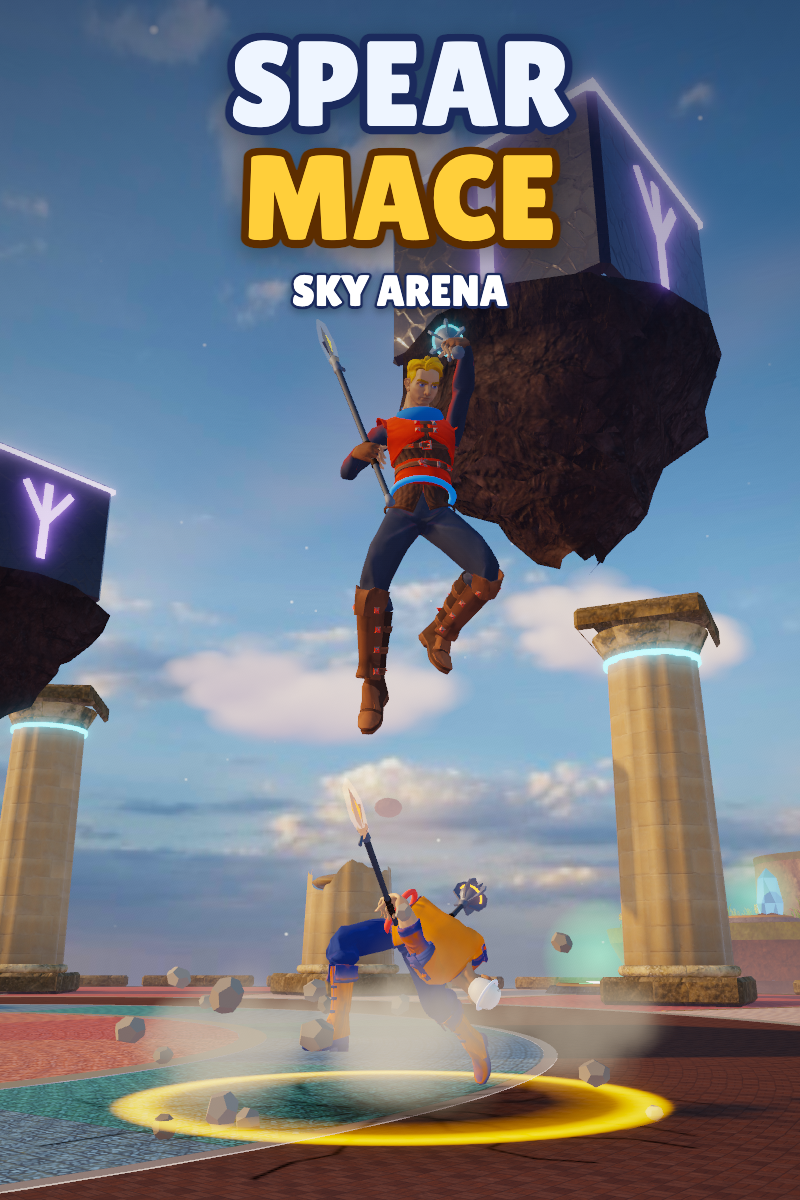
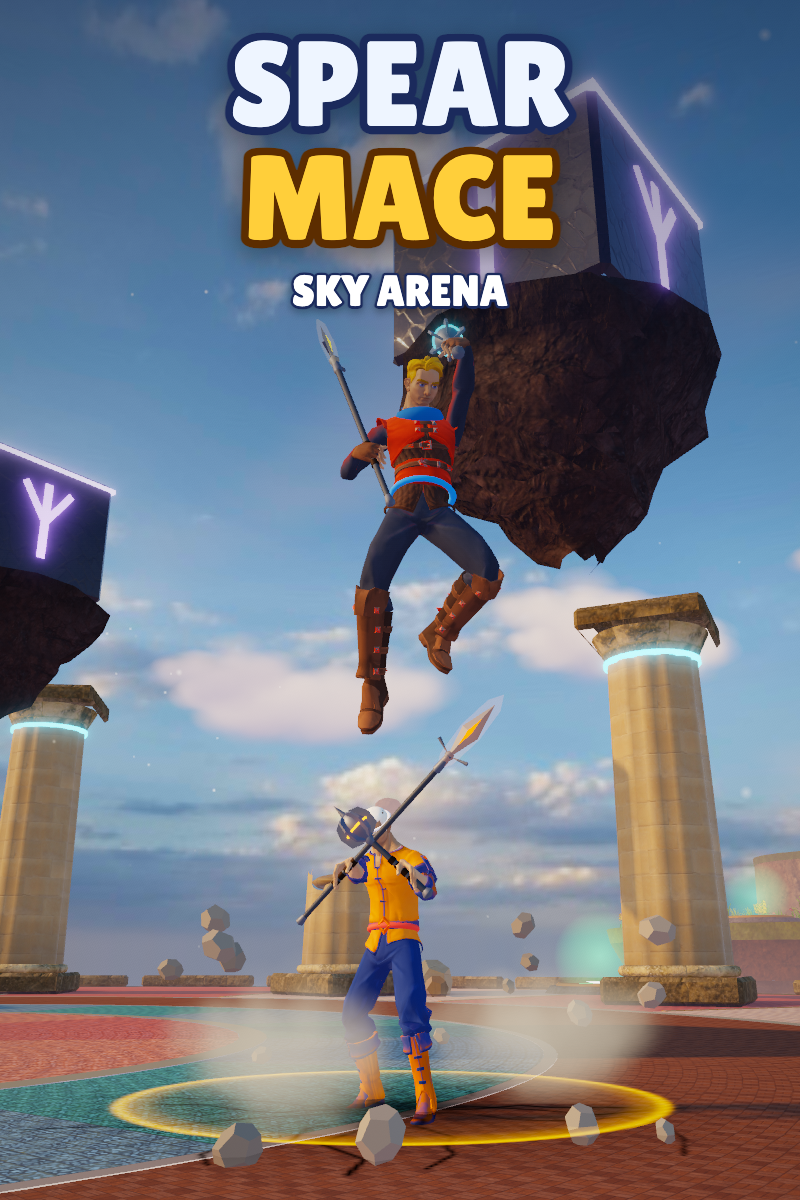
3D: covers wait for every image; outfit textures load up front on desktop

diff --git a/3d/tools/covers.js b/3d/tools/covers.js
@@ -8,7 +8,8 @@
 // ==========================================
 
 import * as THREE from 'three';
-import { CharacterModel, preloadSkin } from '../src/character.js';
+import { CharacterModel, preloadAllSkins, preloadSkin } from '../src/character.js';
+import { assetStats } from '../src/gfx.js';
 
 // Fighters fill the frame: the hero comes down from above with the mace, the rival braces underneath
 const SIZES = {
@@ -34,7 +35,7 @@ function stage(game) {
     const rival = new CharacterModel('noob', '#ff5a4a', 'ember');
     rival.root.position.set(1.25, 0, 9.5);
     rival.root.rotation.set(-0.08, 2.05, 0.05);
-    const rivalPose = { vel: { x: 3, y: 0, z: 0 }, onGround: true, dashT: 0.1, spearCd: 0, slamming: false, swingT: 0, parryT: 0, glide: false, pitch: 0.35, bigScale: 1, stunT: 0.2 };
+    const rivalPose = { vel: { x: 0, y: 0, z: 0 }, onGround: true, dashT: 0, spearCd: 0, slamming: false, swingT: 0, parryT: 0.2, glide: false, pitch: 0.55, bigScale: 1, stunT: 0 };
     pose(rival, rivalPose);
     stage.repose = () => { pose(hero, heroPose); pose(rival, rivalPose); };
     game.scene.add(hero.root, rival.root);
@@ -83,11 +84,17 @@ function drawTitle(ctx, w, h, where) {
 export async function renderCovers(game) {
     await document.fonts.load("100px 'Lilita One'");
     await preloadSkin('steve'); await preloadSkin('noob');
+    preloadAllSkins('steve');
     const r = game.renderer;
     const oldDpr = r.getPixelRatio();
     const unstage = stage(game);
     await new Promise((res) => { const c = new MessageChannel(); c.port1.onmessage = res; c.port2.postMessage(0); }); // let the models swap in
     if (stage.repose) stage.repose();
+    // every image must be in, or fighters would show in flat colours
+    const t0 = performance.now();
+    while (assetStats.loaded + assetStats.failed < assetStats.started && performance.now() - t0 < 12000) {
+        await new Promise((res) => { const c = new MessageChannel(); c.port1.onmessage = res; c.port2.postMessage(0); });
+    }
     const cam = new THREE.PerspectiveCamera(45, 1, 0.05, 900);
     const out = {};
     for (const [name, s] of Object.entries(SIZES)) {

diff --git a/3d/src/character.js b/3d/src/character.js
@@ -141,6 +141,8 @@ export function preloadSkin(id) {
 
 // After the first screen is up, fetch the other fighters one at a time so matches start without waiting
 export function preloadAllSkins(first) {
+    // the outfit textures too, so a fighter never appears in flat colours
+    for (const n of ['ranger', 'peasant']) { chartex(n + '_d', true); chartex(n + '_n', false, [128, 128, 255]); chartex(n + '_orm', false); }
     const ids = Object.keys(SKINS).filter((k) => k !== first);
     const next = () => { const id = ids.shift(); if (id) preloadSkin(id).then(next, next); };
     preloadSkin(first).then(next, next);
